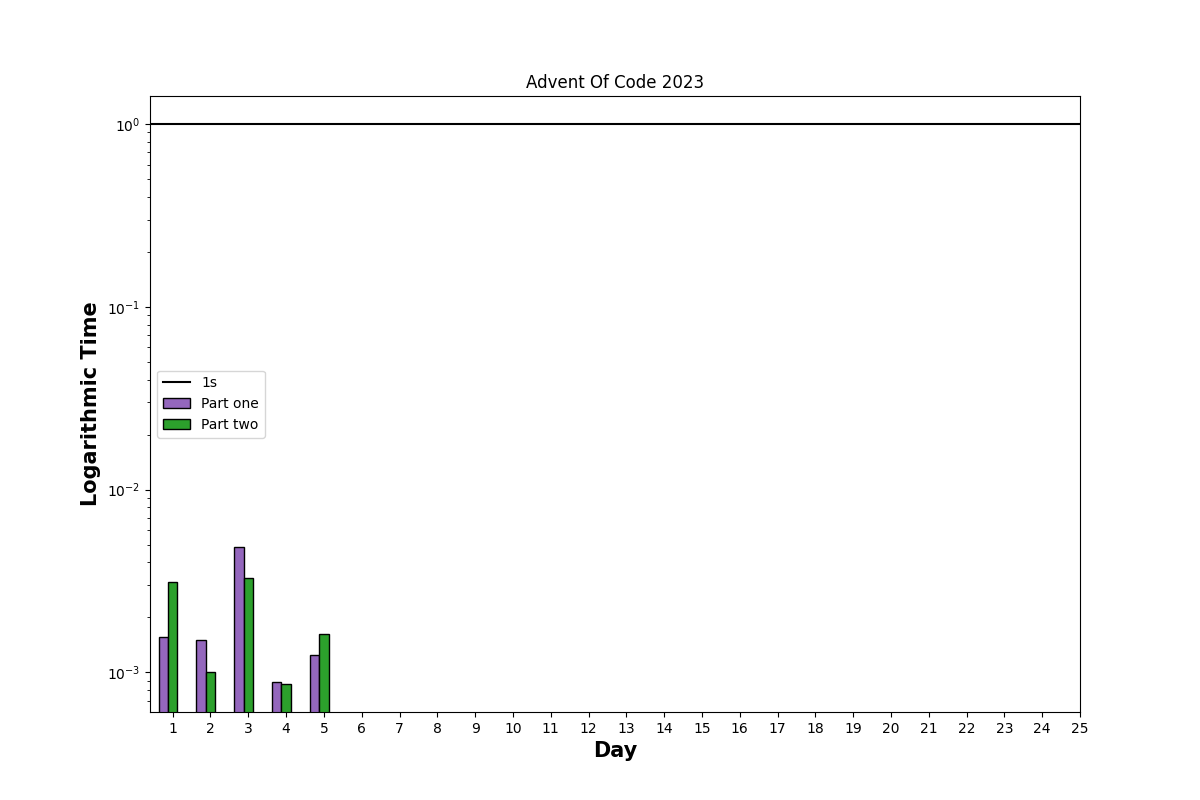
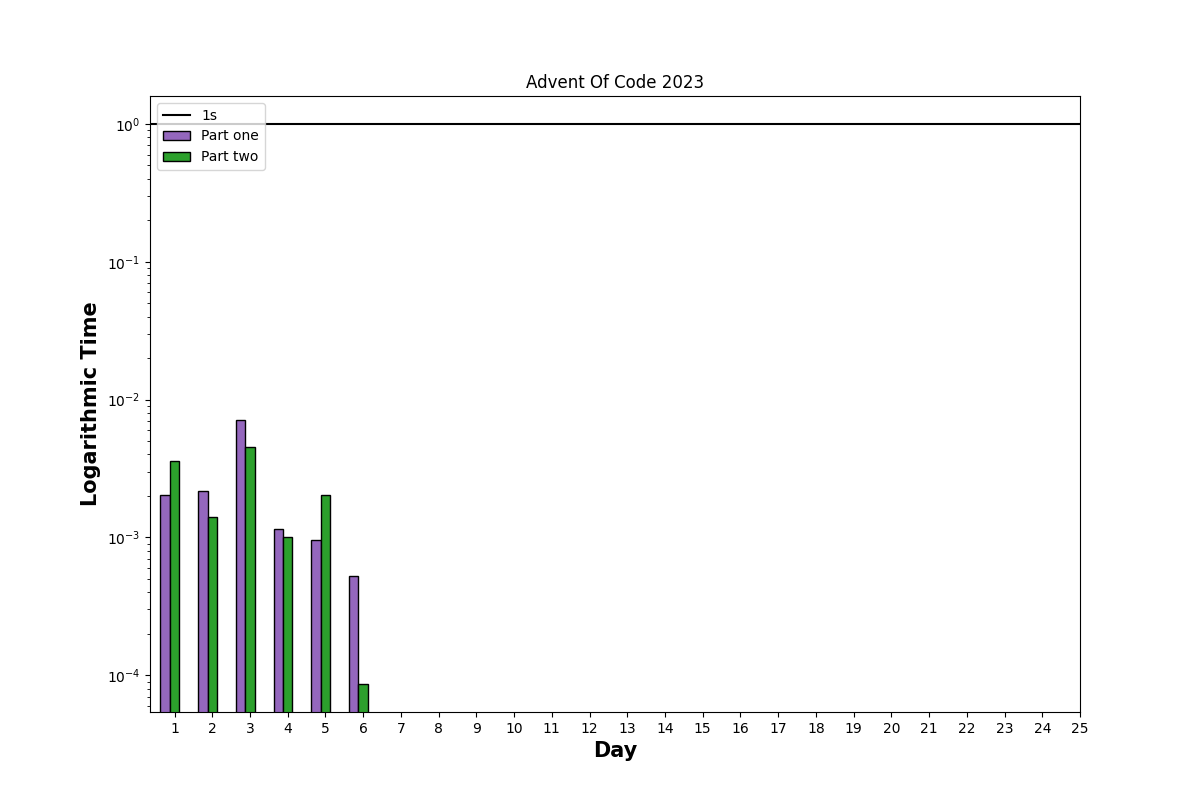
:sparkles: day 6

diff --git a/aoc/year_2023/solutions/day_06.py b/aoc/year_2023/solutions/day_06.py
@@ -1,0 +1,50 @@
+# /usr/bin/python3
+"""Day 6."""
+import math
+from dataclasses import dataclass
+from typing import Tuple
+
+from aoc.python.utils.parsing import read
+from aoc.python.utils.parsing import split_in_two
+from aoc.python.utils.parsing import split_last
+from aoc.python.utils.parsing import split_list_int
+from aoc.python.utils.parsing import squeeze_symbol
+
+
+@dataclass
+class Race:
+    time: int
+    distance: int
+
+    def get_winning_interval(self) -> Tuple[int, int]:
+        delta = self.time**2 - 4*(self.distance+1)  # +1 to beat the record
+        assert delta >= 0
+        delta_sqrt = math.sqrt(delta)
+
+        c_min = math.ceil(0.5*(self.time - delta_sqrt))
+        c_max = math.floor(0.5*(self.time + delta_sqrt))
+
+        return c_min, c_max
+
+
+def part_one(path: str) -> int:
+    s = squeeze_symbol(read(path), " ")
+    times_str, distances_str = split_in_two(s, "\n")
+    times = split_list_int(split_last(times_str, ":"), " ")
+    distances = split_list_int(split_last(distances_str, ":"), " ")
+
+    res = 1
+    for time, distance in zip(times, distances):
+        race = Race(time=time, distance=distance)
+        c_min, c_max = race.get_winning_interval()
+        res *= c_max-c_min+1
+    return res
+
+
+def part_two(path: str) -> int:
+    s = squeeze_symbol(read(path), " ")
+    times_str, distances_str = split_in_two(s, "\n")
+    race = Race(time=int(split_last(times_str, ":").replace(" ", "")),
+                distance=int(split_last(distances_str, ":").replace(" ", "")))
+    c_min, c_max = race.get_winning_interval()
+    return c_max-c_min+1

diff --git a/aoc/python/utils/parsing.py b/aoc/python/utils/parsing.py
@@ -31,6 +31,16 @@ def split_in_two(s: str, sep: str) -> Tuple[str, str]:
     return sep_split[0].strip(), sep_split[1].strip()
 
 
+def split_last(s: str, sep: str) -> str:
+    """Split and take last."""
+    return s.strip().split(sep)[-1]
+
+
+def split_first(s: str, sep: str) -> str:
+    """Split and take first."""
+    return s.strip().split(sep)[0]
+
+
 def split_in_three(s: str, sep: str) -> Tuple[str, str, str]:
     """Split in three."""
     sep_split = s.strip().split(sep)
@@ -52,4 +62,14 @@ def split_in_three_ints(s: str, sep: str) -> Tuple[int, int, int]:
 
 def split_list_int(s: str, sep: str) -> List[int]:
     """Split into list of ints."""
-    return [int(x) for x in s.split(sep)]
+    return [int(x) for x in s.strip().split(sep)]
+
+
+def squeeze_symbol(s: str, symbol: str) -> str:
+    """Squeeze consecutive occurences of a symbol."""
+    done = False
+    while not done:
+        new_s = s.replace(symbol*2, symbol)
+        done = new_s == s
+        s = new_s
+    return s
